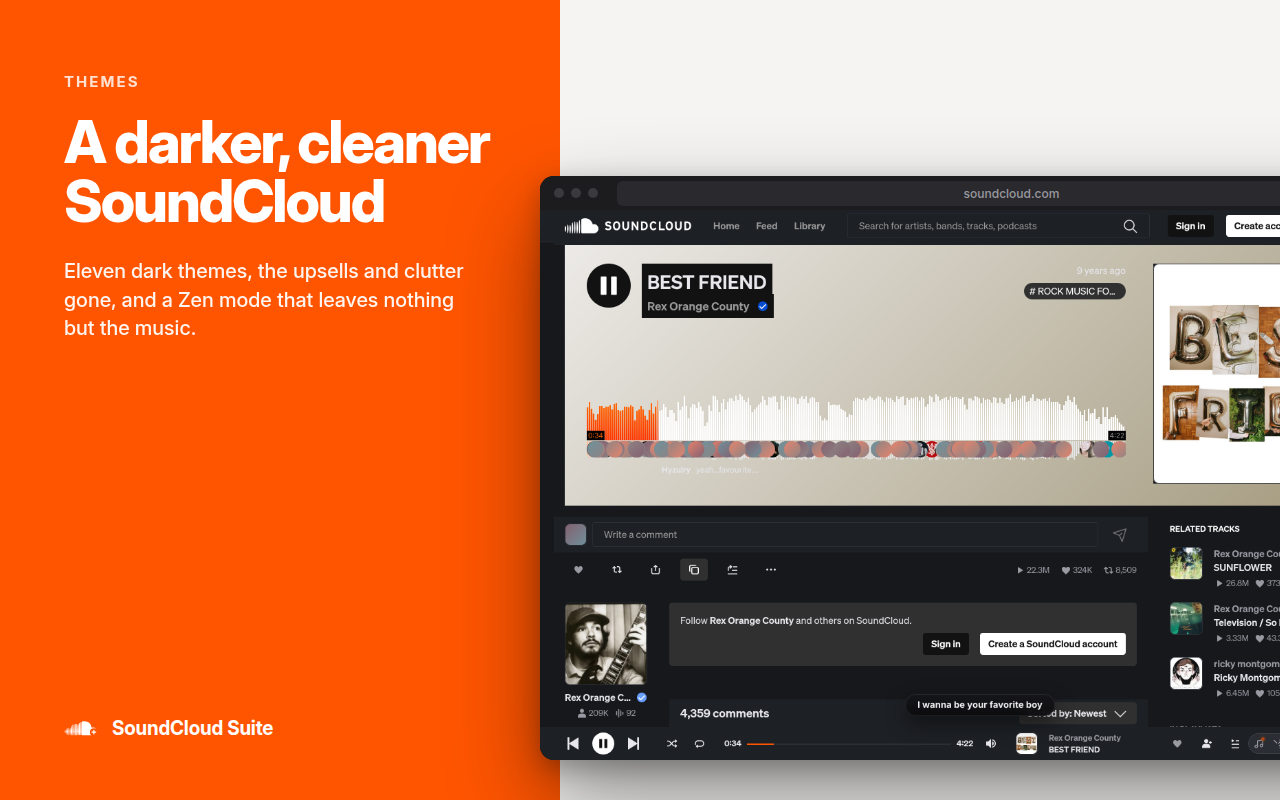
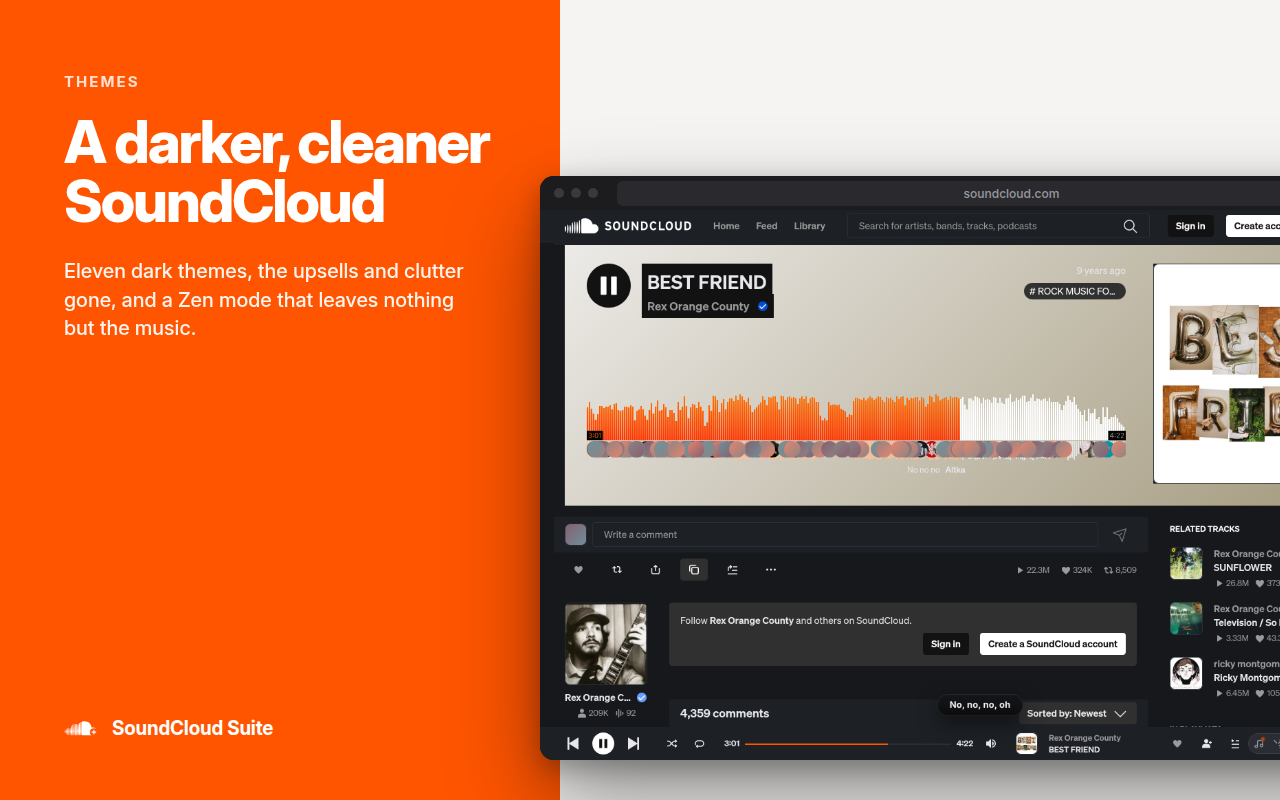
Store screenshots: the lyrics capture lands on a clean verse
The first listing screenshot showed the lines at 1:04–1:08 of Best Friend, two of which carry profanity that a
store reviewer can flag. The capture now seeks to 2:58 (the fallback click-seek to the same spot), so the window
is the second verse; all five screenshots and both promo tiles are recomposed from fresh captures of 4.76.0.

Claude-Session: https://claude.ai/code/session_01FhHU3Kfkmwv4bfv2oFLjsU

Changed region(s): [[0.5, 0.5, 0.75, 0.5938], [0.7188, 0.875, 0.8438, 0.9062]]

diff --git a/soundcloud-suite-extension/tools/store/shots.js b/soundcloud-suite-extension/tools/store/shots.js
@@ -40,7 +40,7 @@ const VW = 1280, VH = 800, PAD = 28;
   const playing = () => page.evaluate(() => { const b = document.querySelector('.playControls__play'); return !!(b && b.classList.contains('playing')); });
   for (let i = 0; i < 4 && !(await playing()); i++) { await step('play-again', () => page.evaluate(() => { const b = document.querySelector('.playControls__play'); if (b) b.click(); })); await sleep(2500); await closeScModals(); }
   console.log('playing:', await playing());
-  await step('seek', () => page.evaluate(() => { const d = window.__sceAudioDebug && window.__sceAudioDebug(); if (d && d.seek) { d.seek(31); return 'debug'; } const w = document.querySelector('.playbackTimeline__progressWrapper'); if (w) { const r = w.getBoundingClientRect(); w.dispatchEvent(new MouseEvent('click', { bubbles: true, clientX: r.left + r.width * 0.12, clientY: r.top + r.height / 2 })); return 'click'; } return 'none'; }).then((m) => console.log('seek via', m)));
+  await step('seek', () => page.evaluate(() => { const d = window.__sceAudioDebug && window.__sceAudioDebug(); if (d && d.seek) { d.seek(178); return 'debug'; } /* 2:58: the lyrics capture lands on the second verse, a window with no profanity in it */ const w = document.querySelector('.playbackTimeline__progressWrapper'); if (w) { const r = w.getBoundingClientRect(); w.dispatchEvent(new MouseEvent('click', { bubbles: true, clientX: r.left + r.width * 0.68, clientY: r.top + r.height / 2 })); return 'click'; } return 'none'; }).then((m) => console.log('seek via', m)));
   await sleep(2500); await closeScModals();
   await step('dismiss-toasts', () => page.keyboard.press('Escape')); await sleep(400);
   // the themed page, hub closed
